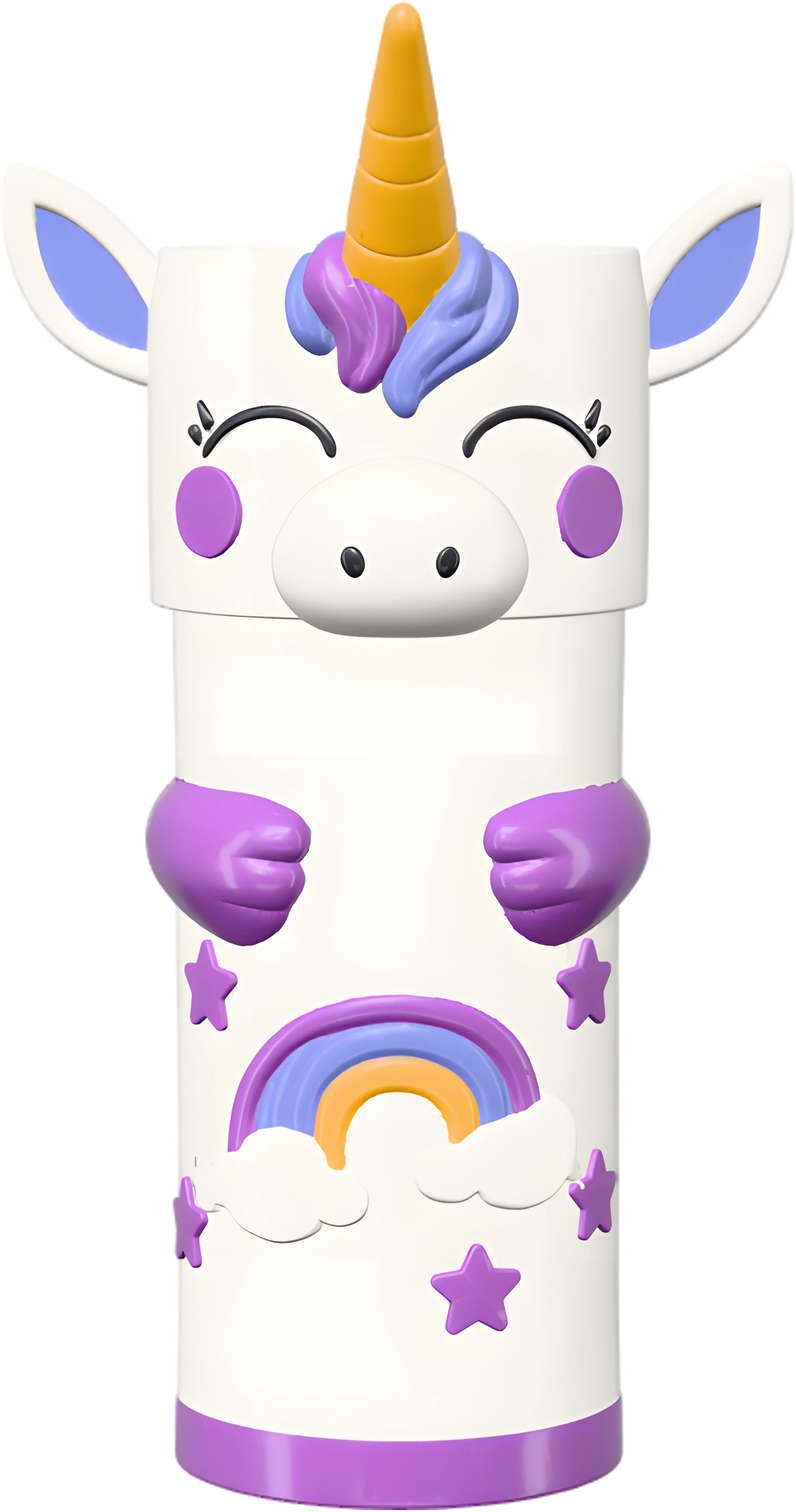
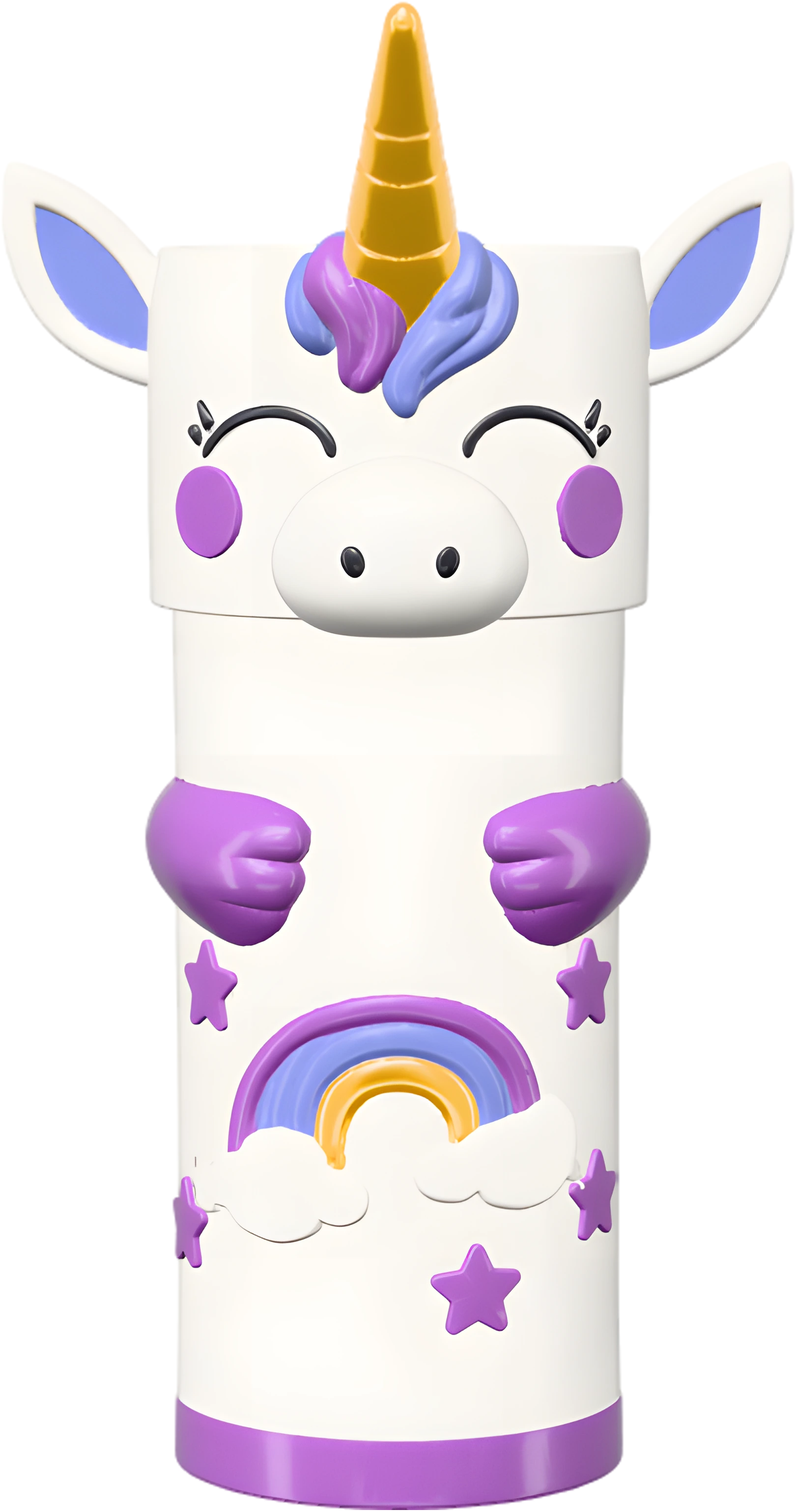
Revisão do unicórnio: o chifre da 1ª foto em ouro polido, como nas fotos do dono
Na galeria real (claro e escuro, 1366 e 390 px) a frente nova ainda destoava num ponto: o chifre (e a faixa dourada do arco-íris,
o mesmo material) saía laranja chapado, sem brilho, ao lado do ouro polido das outras três fotos. A média batia (L 0,77), mas o
desvio era a metade (0,051 contra 0,084-0,114 em OKLab) e os brilhos não chegavam (95º percentil 0,85 contra 0,92-0,95).
A causa: o 4º campo do gloss (a força do reflexo, 3,2 no chifre) não fazia nada — o three.js só lê o envMapIntensity do envMap do
próprio material, e o lamp-glb.html usava só o scene.environment. Agora quem passa esse campo ganha o estúdio como envMap, e o
chifre é metal (gloss_horn=.2,1,.02,3,1, cor #ffc90e): L 0,742, desvio 0,108, 95º percentil 0,89, matiz 80° (fotos do dono:
0,74-0,79, 0,084-0,114, 0,92-0,95, 78-82°). O branco, o roxo e a lavanda ficam idênticos aos do autor (gloss com 3 campos, a
mesma força de antes). Refeito pelo mesmo caminho (lamp-assets.cjs unicornioscopio --foto + Real-ESRGAN + gerar.cjs); só a frente
mudou. VIEWS_VERSION 28 (a 27 já registrava a imagem do autor), páginas de produto e versioned-assets em dia; AMPLIAR.md e
fotos.json explicam o ouro e a armadilha do envMapIntensity.

Changed region(s): [[0.4321, 0.0, 0.5864, 0.2185], [0.4012, 0.6866, 0.6173, 0.7802]]

diff --git a/dist/aviaoscopia.html b/dist/aviaoscopia.html
@@ -41,9 +41,9 @@
       <nav class="pl-crumbs" aria-label="Você está em"><a href="produtos">Produtos</a><span aria-hidden="true">/</span><span aria-current="page">Aviãoscopia</span></nav>
       <article class="pl" style="--pl-accent:#22638f;--pl-ink:#0e1c3d;--pl-muted:#3a6280;--pl-stops:#f0f9fe 0%,#d3ebf8 52%,#bcdff2 100%" data-pl="aviaoscopia">
         <div class="pl-stage">
-          <div class="pl-art is-real" data-pl-stage data-view="photo"><img class="pl-photo" src="assets/vistas/aviaoscopia-frente.webp?v=27" alt="Aviãoscopia — Frente" width="1200" height="1500" fetchpriority="high"><div class="pl-3d" data-pl-viewer hidden></div><p class="pl-status" data-pl-status role="status" hidden></p><ul class="pl-dots" data-pl-dots aria-label="Cores originais"><li><button type="button" class="pl-dot" data-pl-part="body" aria-controls="pl-custom" title="Corpo: Azul BIC" aria-label="Corpo: Azul BIC"><i style="--chip:#183c99" aria-hidden="true"></i></button></li><li><button type="button" class="pl-dot" data-pl-part="details" aria-controls="pl-custom" title="Estrelas e topo: Vermelho" aria-label="Estrelas e topo: Vermelho"><i style="--chip:#db354c" aria-hidden="true"></i></button></li><li><button type="button" class="pl-dot" data-pl-part="engines" aria-controls="pl-custom" title="Motores: Amarelo" aria-label="Motores: Amarelo"><i style="--chip:#efcf59" aria-hidden="true"></i></button></li></ul></div>
+          <div class="pl-art is-real" data-pl-stage data-view="photo"><img class="pl-photo" src="assets/vistas/aviaoscopia-frente.webp?v=28" alt="Aviãoscopia — Frente" width="1200" height="1500" fetchpriority="high"><div class="pl-3d" data-pl-viewer hidden></div><p class="pl-status" data-pl-status role="status" hidden></p><ul class="pl-dots" data-pl-dots aria-label="Cores originais"><li><button type="button" class="pl-dot" data-pl-part="body" aria-controls="pl-custom" title="Corpo: Azul BIC" aria-label="Corpo: Azul BIC"><i style="--chip:#183c99" aria-hidden="true"></i></button></li><li><button type="button" class="pl-dot" data-pl-part="details" aria-controls="pl-custom" title="Estrelas e topo: Vermelho" aria-label="Estrelas e topo: Vermelho"><i style="--chip:#db354c" aria-hidden="true"></i></button></li><li><button type="button" class="pl-dot" data-pl-part="engines" aria-controls="pl-custom" title="Motores: Amarelo" aria-label="Motores: Amarelo"><i style="--chip:#efcf59" aria-hidden="true"></i></button></li></ul></div>
 
-          <div class="pl-thumbs" role="group" aria-label="Fotos da peça" data-pl-thumbs hidden><button type="button" aria-pressed="true" aria-label="Frente" data-src="assets/vistas/aviaoscopia-frente.webp?v=27" data-alt="Aviãoscopia — Frente"><img src="assets/vistas/aviaoscopia-frente-mini.webp?v=27" alt="" width="160" height="200" loading="lazy" decoding="async" draggable="false"></button><button type="button" aria-pressed="false" aria-label="Três quartos" data-src="assets/vistas/aviaoscopia-tres-quartos.webp?v=27" data-alt="Aviãoscopia — Três quartos"><img src="assets/vistas/aviaoscopia-tres-quartos-mini.webp?v=27" alt="" width="160" height="200" loading="lazy" decoding="async" draggable="false"></button><button type="button" aria-pressed="false" aria-label="Costas" data-src="assets/vistas/aviaoscopia-costas.webp?v=27" data-alt="Aviãoscopia — Costas"><img src="assets/vistas/aviaoscopia-costas-mini.webp?v=27" alt="" width="160" height="200" loading="lazy" decoding="async" draggable="false"></button><button type="button" aria-pressed="false" aria-label="Cabine de perto" data-src="assets/vistas/aviaoscopia-detalhe.webp?v=27" data-alt="Aviãoscopia — Cabine de perto"><img src="assets/vistas/aviaoscopia-detalhe-mini.webp?v=27" alt="" width="160" height="200" loading="lazy" decoding="async" draggable="false"></button></div>
+          <div class="pl-thumbs" role="group" aria-label="Fotos da peça" data-pl-thumbs hidden><button type="button" aria-pressed="true" aria-label="Frente" data-src="assets/vistas/aviaoscopia-frente.webp?v=28" data-alt="Aviãoscopia — Frente"><img src="assets/vistas/aviaoscopia-frente-mini.webp?v=28" alt="" width="160" height="200" loading="lazy" decoding="async" draggable="false"></button><button type="button" aria-pressed="false" aria-label="Três quartos" data-src="assets/vistas/aviaoscopia-tres-quartos.webp?v=28" data-alt="Aviãoscopia — Três quartos"><img src="assets/vistas/aviaoscopia-tres-quartos-mini.webp?v=28" alt="" width="160" height="200" loading="lazy" decoding="async" draggable="false"></button><button type="button" aria-pressed="false" aria-label="Costas" data-src="assets/vistas/aviaoscopia-costas.webp?v=28" data-alt="Aviãoscopia — Costas"><img src="assets/vistas/aviaoscopia-costas-mini.webp?v=28" alt="" width="160" height="200" loading="lazy" decoding="async" draggable="false"></button><button type="button" aria-pressed="false" aria-label="Cabine de perto" data-src="assets/vistas/aviaoscopia-detalhe.webp?v=28" data-alt="Aviãoscopia — Cabine de perto"><img src="assets/vistas/aviaoscopia-detalhe-mini.webp?v=28" alt="" width="160" height="200" loading="lazy" decoding="async" draggable="false"></button></div>
           <div class="pl-views" role="group" aria-label="Ver a peça" data-pl-views hidden><button type="button" data-pl-view="photo" aria-pressed="true">Foto</button><button type="button" data-pl-view="3d" aria-pressed="false"><svg class="icon" viewBox="0 0 24 24" fill="none" stroke="currentColor" stroke-width="1.7" stroke-linecap="round" stroke-linejoin="round" aria-hidden="true"><path d="M12 2.8 20 7.2v9.6L12 21.2 4 16.8V7.2z"/><path d="m4 7.2 8 4.4 8-4.4M12 11.6v9.6"/></svg><span>Girar em 360°</span></button></div>
         </div>
         <div class="pl-info">

diff --git a/dist/unicornioscopio.html b/dist/unicornioscopio.html
@@ -41,9 +41,9 @@
       <nav class="pl-crumbs" aria-label="Você está em"><a href="produtos">Produtos</a><span aria-hidden="true">/</span><span aria-current="page">UnicornLamp</span></nav>
       <article class="pl" style="--pl-accent:#87397a;--pl-ink:#291532;--pl-muted:#5a3d6a;--pl-stops:#fcf6fe 0%,#f1e3f8 52%,#e5d1f1 100%" data-pl="unicornioscopio">
         <div class="pl-stage">
-          <div class="pl-art is-real" data-pl-stage data-view="photo"><img class="pl-photo" src="assets/vistas/unicornioscopio-frente.webp?v=27" alt="UnicornLamp — Frente" width="1200" height="1500" fetchpriority="high"><div class="pl-3d" data-pl-viewer hidden></div><p class="pl-status" data-pl-status role="status" hidden></p><ul class="pl-dots" data-pl-dots aria-label="Cores originais"><li><span class="pl-dot is-fixed" role="img" title="Branco" aria-label="Branco"><i style="--chip:#f0ece8" aria-hidden="true"></i></span></li><li><span class="pl-dot is-fixed" role="img" title="Roxo" aria-label="Roxo"><i style="--chip:#a65cbe" aria-hidden="true"></i></span></li><li><span class="pl-dot is-fixed" role="img" title="Azul-lavanda" aria-label="Azul-lavanda"><i style="--chip:#7c8ad8" aria-hidden="true"></i></span></li><li><span class="pl-dot is-fixed" role="img" title="Dourado" aria-label="Dourado"><i style="--chip:#d6a82c" aria-hidden="true"></i></span></li></ul></div>
+          <div class="pl-art is-real" data-pl-stage data-view="photo"><img class="pl-photo" src="assets/vistas/unicornioscopio-frente.webp?v=28" alt="UnicornLamp — Frente" width="1200" height="1500" fetchpriority="high"><div class="pl-3d" data-pl-viewer hidden></div><p class="pl-status" data-pl-status role="status" hidden></p><ul class="pl-dots" data-pl-dots aria-label="Cores originais"><li><span class="pl-dot is-fixed" role="img" title="Branco" aria-label="Branco"><i style="--chip:#f0ece8" aria-hidden="true"></i></span></li><li><span class="pl-dot is-fixed" role="img" title="Roxo" aria-label="Roxo"><i style="--chip:#a65cbe" aria-hidden="true"></i></span></li><li><span class="pl-dot is-fixed" role="img" title="Azul-lavanda" aria-label="Azul-lavanda"><i style="--chip:#7c8ad8" aria-hidden="true"></i></span></li><li><span class="pl-dot is-fixed" role="img" title="Dourado" aria-label="Dourado"><i style="--chip:#d6a82c" aria-hidden="true"></i></span></li></ul></div>
 
-          <div class="pl-thumbs" role="group" aria-label="Fotos da peça" data-pl-thumbs hidden><button type="button" aria-pressed="true" aria-label="Frente" data-src="assets/vistas/unicornioscopio-frente.webp?v=27" data-alt="UnicornLamp — Frente"><img src="assets/vistas/unicornioscopio-frente-mini.webp?v=27" alt="" width="160" height="200" loading="lazy" decoding="async" draggable="false"></button><button type="button" aria-pressed="false" aria-label="Lado" data-src="assets/vistas/unicornioscopio-lado.webp?v=27" data-alt="UnicornLamp — Lado"><img src="assets/vistas/unicornioscopio-lado-mini.webp?v=27" alt="" width="160" height="200" loading="lazy" decoding="async" draggable="false"></button><button type="button" aria-pressed="false" aria-label="Costas" data-src="assets/vistas/unicornioscopio-costas.webp?v=27" data-alt="UnicornLamp — Costas"><img src="assets/vistas/unicornioscopio-costas-mini.webp?v=27" alt="" width="160" height="200" loading="lazy" decoding="async" draggable="false"></button><button type="button" aria-pressed="false" aria-label="Rosto de perto" data-src="assets/vistas/unicornioscopio-detalhe.webp?v=27" data-alt="UnicornLamp — Rosto de perto"><img src="assets/vistas/unicornioscopio-detalhe-mini.webp?v=27" alt="" width="160" height="200" loading="lazy" decoding="async" draggable="false"></button></div>
+          <div class="pl-thumbs" role="group" aria-label="Fotos da peça" data-pl-thumbs hidden><button type="button" aria-pressed="true" aria-label="Frente" data-src="assets/vistas/unicornioscopio-frente.webp?v=28" data-alt="UnicornLamp — Frente"><img src="assets/vistas/unicornioscopio-frente-mini.webp?v=28" alt="" width="160" height="200" loading="lazy" decoding="async" draggable="false"></button><button type="button" aria-pressed="false" aria-label="Lado" data-src="assets/vistas/unicornioscopio-lado.webp?v=28" data-alt="UnicornLamp — Lado"><img src="assets/vistas/unicornioscopio-lado-mini.webp?v=28" alt="" width="160" height="200" loading="lazy" decoding="async" draggable="false"></button><button type="button" aria-pressed="false" aria-label="Costas" data-src="assets/vistas/unicornioscopio-costas.webp?v=28" data-alt="UnicornLamp — Costas"><img src="assets/vistas/unicornioscopio-costas-mini.webp?v=28" alt="" width="160" height="200" loading="lazy" decoding="async" draggable="false"></button><button type="button" aria-pressed="false" aria-label="Rosto de perto" data-src="assets/vistas/unicornioscopio-detalhe.webp?v=28" data-alt="UnicornLamp — Rosto de perto"><img src="assets/vistas/unicornioscopio-detalhe-mini.webp?v=28" alt="" width="160" height="200" loading="lazy" decoding="async" draggable="false"></button></div>
           <div class="pl-views" role="group" aria-label="Ver a peça" data-pl-views hidden><button type="button" data-pl-view="photo" aria-pressed="true">Foto</button><button type="button" data-pl-view="3d" aria-pressed="false"><svg class="icon" viewBox="0 0 24 24" fill="none" stroke="currentColor" stroke-width="1.7" stroke-linecap="round" stroke-linejoin="round" aria-hidden="true"><path d="M12 2.8 20 7.2v9.6L12 21.2 4 16.8V7.2z"/><path d="m4 7.2 8 4.4 8-4.4M12 11.6v9.6"/></svg><span>Girar em 360°</span></button></div>
         </div>
         <div class="pl-info">

diff --git a/dist/dinossauroscopio.html b/dist/dinossauroscopio.html
@@ -41,9 +41,9 @@
       <nav class="pl-crumbs" aria-label="Você está em"><a href="produtos">Produtos</a><span aria-hidden="true">/</span><span aria-current="page">Dinossauroscópio</span></nav>
       <article class="pl" style="--pl-accent:#4a5f34;--pl-ink:#1b2414;--pl-muted:#46553a;--pl-stops:#f4f6ee 0%,#e2e8d4 52%,#d0d9bf 100%" data-pl="dinossauroscopio">
         <div class="pl-stage">
-          <div class="pl-art is-real" data-pl-stage data-view="photo"><img class="pl-photo" src="assets/vistas/dinossauroscopio-frente.webp?v=27" alt="Dinossauroscópio — Frente" width="1200" height="1500" fetchpriority="high"><div class="pl-3d" data-pl-viewer hidden></div><p class="pl-status" data-pl-status role="status" hidden></p><ul class="pl-dots" data-pl-dots aria-label="Cores originais"><li><button type="button" class="pl-dot" data-pl-part="body" aria-controls="pl-custom" title="Corpo: Verde-oliva" aria-label="Corpo: Verde-oliva"><i style="--chip:#7c8f73" aria-hidden="true"></i></button></li><li><button type="button" class="pl-dot" data-pl-part="details" aria-controls="pl-custom" title="Crista e bolinhas: Amarelo-claro" aria-label="Crista e bolinhas: Amarelo-claro"><i style="--chip:#f0dd7c" aria-hidden="true"></i></button></li></ul></div>
+          <div class="pl-art is-real" data-pl-stage data-view="photo"><img class="pl-photo" src="assets/vistas/dinossauroscopio-frente.webp?v=28" alt="Dinossauroscópio — Frente" width="1200" height="1500" fetchpriority="high"><div class="pl-3d" data-pl-viewer hidden></div><p class="pl-status" data-pl-status role="status" hidden></p><ul class="pl-dots" data-pl-dots aria-label="Cores originais"><li><button type="button" class="pl-dot" data-pl-part="body" aria-controls="pl-custom" title="Corpo: Verde-oliva" aria-label="Corpo: Verde-oliva"><i style="--chip:#7c8f73" aria-hidden="true"></i></button></li><li><button type="button" class="pl-dot" data-pl-part="details" aria-controls="pl-custom" title="Crista e bolinhas: Amarelo-claro" aria-label="Crista e bolinhas: Amarelo-claro"><i style="--chip:#f0dd7c" aria-hidden="true"></i></button></li></ul></div>
 
-          <div class="pl-thumbs" role="group" aria-label="Fotos da peça" data-pl-thumbs hidden><button type="button" aria-pressed="true" aria-label="Frente" data-src="assets/vistas/dinossauroscopio-frente.webp?v=27" data-alt="Dinossauroscópio — Frente"><img src="assets/vistas/dinossauroscopio-frente-mini.webp?v=27" alt="" width="160" height="200" loading="lazy" decoding="async" draggable="false"></button><button type="button" aria-pressed="false" aria-label="Três quartos" data-src="assets/vistas/dinossauroscopio-tres-quartos.webp?v=27" data-alt="Dinossauroscópio — Três quartos"><img src="assets/vistas/dinossauroscopio-tres-quartos-mini.webp?v=27" alt="" width="160" height="200" loading="lazy" decoding="async" draggable="false"></button><button type="button" aria-pressed="false" aria-label="Costas" data-src="assets/vistas/dinossauroscopio-costas.webp?v=27" data-alt="Dinossauroscópio — Costas"><img src="assets/vistas/dinossauroscopio-costas-mini.webp?v=27" alt="" width="160" height="200" loading="lazy" decoding="async" draggable="false"></button><button type="button" aria-pressed="false" aria-label="Rosto de perto" data-src="assets/vistas/dinossauroscopio-detalhe.webp?v=27" data-alt="Dinossauroscópio — Rosto de perto"><img src="assets/vistas/dinossauroscopio-detalhe-mini.webp?v=27" alt="" width="160" height="200" loading="lazy" decoding="async" draggable="false"></button></div>
+          <div class="pl-thumbs" role="group" aria-label="Fotos da peça" data-pl-thumbs hidden><button type="button" aria-pressed="true" aria-label="Frente" data-src="assets/vistas/dinossauroscopio-frente.webp?v=28" data-alt="Dinossauroscópio — Frente"><img src="assets/vistas/dinossauroscopio-frente-mini.webp?v=28" alt="" width="160" height="200" loading="lazy" decoding="async" draggable="false"></button><button type="button" aria-pressed="false" aria-label="Três quartos" data-src="assets/vistas/dinossauroscopio-tres-quartos.webp?v=28" data-alt="Dinossauroscópio — Três quartos"><img src="assets/vistas/dinossauroscopio-tres-quartos-mini.webp?v=28" alt="" width="160" height="200" loading="lazy" decoding="async" draggable="false"></button><button type="button" aria-pressed="false" aria-label="Costas" data-src="assets/vistas/dinossauroscopio-costas.webp?v=28" data-alt="Dinossauroscópio — Costas"><img src="assets/vistas/dinossauroscopio-costas-mini.webp?v=28" alt="" width="160" height="200" loading="lazy" decoding="async" draggable="false"></button><button type="button" aria-pressed="false" aria-label="Rosto de perto" data-src="assets/vistas/dinossauroscopio-detalhe.webp?v=28" data-alt="Dinossauroscópio — Rosto de perto"><img src="assets/vistas/dinossauroscopio-detalhe-mini.webp?v=28" alt="" width="160" height="200" loading="lazy" decoding="async" draggable="false"></button></div>
           <div class="pl-views" role="group" aria-label="Ver a peça" data-pl-views hidden><button type="button" data-pl-view="photo" aria-pressed="true">Foto</button><button type="button" data-pl-view="3d" aria-pressed="false"><svg class="icon" viewBox="0 0 24 24" fill="none" stroke="currentColor" stroke-width="1.7" stroke-linecap="round" stroke-linejoin="round" aria-hidden="true"><path d="M12 2.8 20 7.2v9.6L12 21.2 4 16.8V7.2z"/><path d="m4 7.2 8 4.4 8-4.4M12 11.6v9.6"/></svg><span>Girar em 360°</span></button></div>
         </div>
         <div class="pl-info">

diff --git a/dist/borboletoscopio.html b/dist/borboletoscopio.html
@@ -41,9 +41,9 @@
       <nav class="pl-crumbs" aria-label="Você está em"><a href="produtos">Produtos</a><span aria-hidden="true">/</span><span aria-current="page">Borboletoscópio</span></nav>
       <article class="pl" style="--pl-accent:#25664c;--pl-ink:#10281e;--pl-muted:#356650;--pl-stops:#f0faf4 0%,#d9f0e4 52%,#c6e8d7 100%" data-pl="borboletoscopio">
         <div class="pl-stage">
-          <div class="pl-art is-real" data-pl-stage data-view="photo"><img class="pl-photo" src="assets/vistas/borboletoscopio-frente.webp?v=27" alt="Borboletoscópio — Frente" width="1200" height="1500" fetchpriority="high"><div class="pl-3d" data-pl-viewer hidden></div><p class="pl-status" data-pl-status role="status" hidden></p><ul class="pl-dots" data-pl-dots aria-label="Cores originais"><li><button type="button" class="pl-dot" data-pl-part="body" aria-controls="pl-custom" title="Corpo: Verde-menta" aria-label="Corpo: Verde-menta"><i style="--chip:#89cdbc" aria-hidden="true"></i></button></li><li><button type="button" class="pl-dot" data-pl-part="details" aria-controls="pl-custom" title="Detalhes das asas: Amarelo" aria-label="Detalhes das asas: Amarelo"><i style="--chip:#efcf59" aria-hidden="true"></i></button></li></ul></div>
+          <div class="pl-art is-real" data-pl-stage data-view="photo"><img class="pl-photo" src="assets/vistas/borboletoscopio-frente.webp?v=28" alt="Borboletoscópio — Frente" width="1200" height="1500" fetchpriority="high"><div class="pl-3d" data-pl-viewer hidden></div><p class="pl-status" data-pl-status role="status" hidden></p><ul class="pl-dots" data-pl-dots aria-label="Cores originais"><li><button type="button" class="pl-dot" data-pl-part="body" aria-controls="pl-custom" title="Corpo: Verde-menta" aria-label="Corpo: Verde-menta"><i style="--chip:#89cdbc" aria-hidden="true"></i></button></li><li><button type="button" class="pl-dot" data-pl-part="details" aria-controls="pl-custom" title="Detalhes das asas: Amarelo" aria-label="Detalhes das asas: Amarelo"><i style="--chip:#efcf59" aria-hidden="true"></i></button></li></ul></div>
 
-          <div class="pl-thumbs" role="group" aria-label="Fotos da peça" data-pl-thumbs hidden><button type="button" aria-pressed="true" aria-label="Frente" data-src="assets/vistas/borboletoscopio-frente.webp?v=27" data-alt="Borboletoscópio — Frente"><img src="assets/vistas/borboletoscopio-frente-mini.webp?v=27" alt="" width="160" height="200" loading="lazy" decoding="async" draggable="false"></button><button type="button" aria-pressed="false" aria-label="Três quartos" data-src="assets/vistas/borboletoscopio-tres-quartos.webp?v=27" data-alt="Borboletoscópio — Três quartos"><img src="assets/vistas/borboletoscopio-tres-quartos-mini.webp?v=27" alt="" width="160" height="200" loading="lazy" decoding="async" draggable="false"></button><button type="button" aria-pressed="false" aria-label="Costas" data-src="assets/vistas/borboletoscopio-costas.webp?v=27" data-alt="Borboletoscópio — Costas"><img src="assets/vistas/borboletoscopio-costas-mini.webp?v=27" alt="" width="160" height="200" loading="lazy" decoding="async" draggable="false"></button><button type="button" aria-pressed="false" aria-label="Rostinho de perto" data-src="assets/vistas/borboletoscopio-detalhe.webp?v=27" data-alt="Borboletoscópio — Rostinho de perto"><img src="assets/vistas/borboletoscopio-detalhe-mini.webp?v=27" alt="" width="160" height="200" loading="lazy" decoding="async" draggable="false"></button></div>
+          <div class="pl-thumbs" role="group" aria-label="Fotos da peça" data-pl-thumbs hidden><button type="button" aria-pressed="true" aria-label="Frente" data-src="assets/vistas/borboletoscopio-frente.webp?v=28" data-alt="Borboletoscópio — Frente"><img src="assets/vistas/borboletoscopio-frente-mini.webp?v=28" alt="" width="160" height="200" loading="lazy" decoding="async" draggable="false"></button><button type="button" aria-pressed="false" aria-label="Três quartos" data-src="assets/vistas/borboletoscopio-tres-quartos.webp?v=28" data-alt="Borboletoscópio — Três quartos"><img src="assets/vistas/borboletoscopio-tres-quartos-mini.webp?v=28" alt="" width="160" height="200" loading="lazy" decoding="async" draggable="false"></button><button type="button" aria-pressed="false" aria-label="Costas" data-src="assets/vistas/borboletoscopio-costas.webp?v=28" data-alt="Borboletoscópio — Costas"><img src="assets/vistas/borboletoscopio-costas-mini.webp?v=28" alt="" width="160" height="200" loading="lazy" decoding="async" draggable="false"></button><button type="button" aria-pressed="false" aria-label="Rostinho de perto" data-src="assets/vistas/borboletoscopio-detalhe.webp?v=28" data-alt="Borboletoscópio — Rostinho de perto"><img src="assets/vistas/borboletoscopio-detalhe-mini.webp?v=28" alt="" width="160" height="200" loading="lazy" decoding="async" draggable="false"></button></div>
           <div class="pl-views" role="group" aria-label="Ver a peça" data-pl-views hidden><button type="button" data-pl-view="photo" aria-pressed="true">Foto</button><button type="button" data-pl-view="3d" aria-pressed="false"><svg class="icon" viewBox="0 0 24 24" fill="none" stroke="currentColor" stroke-width="1.7" stroke-linecap="round" stroke-linejoin="round" aria-hidden="true"><path d="M12 2.8 20 7.2v9.6L12 21.2 4 16.8V7.2z"/><path d="m4 7.2 8 4.4 8-4.4M12 11.6v9.6"/></svg><span>Girar em 360°</span></button></div>
         </div>
         <div class="pl-info">

diff --git a/dist/girafoscopio.html b/dist/girafoscopio.html
@@ -41,9 +41,9 @@
       <nav class="pl-crumbs" aria-label="Você está em"><a href="produtos">Produtos</a><span aria-hidden="true">/</span><span aria-current="page">GiraffeLamp</span></nav>
       <article class="pl" style="--pl-accent:#87430c;--pl-ink:#2e1c07;--pl-muted:#5c3a10;--pl-stops:#fff6df 0%,#fbe4b0 52%,#f4d08a 100%" data-pl="girafoscopio">
         <div class="pl-stage">
-          <div class="pl-art is-real" data-pl-stage data-view="photo"><img class="pl-photo" src="assets/vistas/girafoscopio-frente.webp?v=27" alt="GiraffeLamp — Frente" width="1200" height="1500" fetchpriority="high"><div class="pl-3d" data-pl-viewer hidden></div><p class="pl-status" data-pl-status role="status" hidden></p><ul class="pl-dots" data-pl-dots aria-label="Cores originais"><li><span class="pl-dot is-fixed" role="img" title="Amarelo-ocre" aria-label="Amarelo-ocre"><i style="--chip:#eeb012" aria-hidden="true"></i></span></li><li><span class="pl-dot is-fixed" role="img" title="Marrom" aria-label="Marrom"><i style="--chip:#60341e" aria-hidden="true"></i></span></li><li><span class="pl-dot is-fixed" role="img" title="Creme" aria-label="Creme"><i style="--chip:#dec4a0" aria-hidden="true"></i></span></li></ul></div>
+          <div class="pl-art is-real" data-pl-stage data-view="photo"><img class="pl-photo" src="assets/vistas/girafoscopio-frente.webp?v=28" alt="GiraffeLamp — Frente" width="1200" height="1500" fetchpriority="high"><div class="pl-3d" data-pl-viewer hidden></div><p class="pl-status" data-pl-status role="status" hidden></p><ul class="pl-dots" data-pl-dots aria-label="Cores originais"><li><span class="pl-dot is-fixed" role="img" title="Amarelo-ocre" aria-label="Amarelo-ocre"><i style="--chip:#eeb012" aria-hidden="true"></i></span></li><li><span class="pl-dot is-fixed" role="img" title="Marrom" aria-label="Marrom"><i style="--chip:#60341e" aria-hidden="true"></i></span></li><li><span class="pl-dot is-fixed" role="img" title="Creme" aria-label="Creme"><i style="--chip:#dec4a0" aria-hidden="true"></i></span></li></ul></div>
 
-          <div class="pl-thumbs" role="group" aria-label="Fotos da peça" data-pl-thumbs hidden><button type="button" aria-pressed="true" aria-label="Frente" data-src="assets/vistas/girafoscopio-frente.webp?v=27" data-alt="GiraffeLamp — Frente"><img src="assets/vistas/girafoscopio-frente-mini.webp?v=27" alt="" width="160" height="200" loading="lazy" decoding="async" draggable="false"></button><button type="button" aria-pressed="false" aria-label="Lado" data-src="assets/vistas/girafoscopio-lado.webp?v=27" data-alt="GiraffeLamp — Lado"><img src="assets/vistas/girafoscopio-lado-mini.webp?v=27" alt="" width="160" height="200" loading="lazy" decoding="async" draggable="false"></button><button type="button" aria-pressed="false" aria-label="Costas" data-src="assets/vistas/girafoscopio-costas.webp?v=27" data-alt="GiraffeLamp — Costas"><img src="assets/vistas/girafoscopio-costas-mini.webp?v=27" alt="" width="160" height="200" loading="lazy" decoding="async" draggable="false"></button><button type="button" aria-pressed="false" aria-label="Rosto de perto" data-src="assets/vistas/girafoscopio-detalhe.webp?v=27" data-alt="GiraffeLamp — Rosto de perto"><img src="assets/vistas/girafoscopio-detalhe-mini.webp?v=27" alt="" width="160" height="200" loading="lazy" decoding="async" draggable="false"></button></div>
+          <div class="pl-thumbs" role="group" aria-label="Fotos da peça" data-pl-thumbs hidden><button type="button" aria-pressed="true" aria-label="Frente" data-src="assets/vistas/girafoscopio-frente.webp?v=28" data-alt="GiraffeLamp — Frente"><img src="assets/vistas/girafoscopio-frente-mini.webp?v=28" alt="" width="160" height="200" loading="lazy" decoding="async" draggable="false"></button><button type="button" aria-pressed="false" aria-label="Lado" data-src="assets/vistas/girafoscopio-lado.webp?v=28" data-alt="GiraffeLamp — Lado"><img src="assets/vistas/girafoscopio-lado-mini.webp?v=28" alt="" width="160" height="200" loading="lazy" decoding="async" draggable="false"></button><button type="button" aria-pressed="false" aria-label="Costas" data-src="assets/vistas/girafoscopio-costas.webp?v=28" data-alt="GiraffeLamp — Costas"><img src="assets/vistas/girafoscopio-costas-mini.webp?v=28" alt="" width="160" height="200" loading="lazy" decoding="async" draggable="false"></button><button type="button" aria-pressed="false" aria-label="Rosto de perto" data-src="assets/vistas/girafoscopio-detalhe.webp?v=28" data-alt="GiraffeLamp — Rosto de perto"><img src="assets/vistas/girafoscopio-detalhe-mini.webp?v=28" alt="" width="160" height="200" loading="lazy" decoding="async" draggable="false"></button></div>
           <div class="pl-views" role="group" aria-label="Ver a peça" data-pl-views hidden><button type="button" data-pl-view="photo" aria-pressed="true">Foto</button><button type="button" data-pl-view="3d" aria-pressed="false"><svg class="icon" viewBox="0 0 24 24" fill="none" stroke="currentColor" stroke-width="1.7" stroke-linecap="round" stroke-linejoin="round" aria-hidden="true"><path d="M12 2.8 20 7.2v9.6L12 21.2 4 16.8V7.2z"/><path d="m4 7.2 8 4.4 8-4.4M12 11.6v9.6"/></svg><span>Girar em 360°</span></button></div>
         </div>
         <div class="pl-info">

diff --git a/dist/macacoscopio.html b/dist/macacoscopio.html
@@ -41,9 +41,9 @@
       <nav class="pl-crumbs" aria-label="Você está em"><a href="produtos">Produtos</a><span aria-hidden="true">/</span><span aria-current="page">MonkeyLamp</span></nav>
       <article class="pl" style="--pl-accent:#86441a;--pl-ink:#33200f;--pl-muted:#634526;--pl-stops:#fcf5e5 0%,#f5e8c8 52%,#eddcb5 100%" data-pl="macacoscopio">
         <div class="pl-stage">
-          <div class="pl-art is-real" data-pl-stage data-view="photo"><img class="pl-photo" src="assets/vistas/macacoscopio-frente.webp?v=27" alt="MonkeyLamp — Frente" width="1200" height="1500" fetchpriority="high"><div class="pl-3d" data-pl-viewer hidden></div><p class="pl-status" data-pl-status role="status" hidden></p><ul class="pl-dots" data-pl-dots aria-label="Cores originais"><li><span class="pl-dot is-fixed" role="img" title="Marrom" aria-label="Marrom"><i style="--chip:#6a3a28" aria-hidden="true"></i></span></li><li><span class="pl-dot is-fixed" role="img" title="Bege" aria-label="Bege"><i style="--chip:#c9a07d" aria-hidden="true"></i></span></li><li><span class="pl-dot is-fixed" role="img" title="Amarelo" aria-label="Amarelo"><i style="--chip:#efcf59" aria-hidden="true"></i></span></li></ul></div>
+          <div class="pl-art is-real" data-pl-stage data-view="photo"><img class="pl-photo" src="assets/vistas/macacoscopio-frente.webp?v=28" alt="MonkeyLamp — Frente" width="1200" height="1500" fetchpriority="high"><div class="pl-3d" data-pl-viewer hidden></div><p class="pl-status" data-pl-status role="status" hidden></p><ul class="pl-dots" data-pl-dots aria-label="Cores originais"><li><span class="pl-dot is-fixed" role="img" title="Marrom" aria-label="Marrom"><i style="--chip:#6a3a28" aria-hidden="true"></i></span></li><li><span class="pl-dot is-fixed" role="img" title="Bege" aria-label="Bege"><i style="--chip:#c9a07d" aria-hidden="true"></i></span></li><li><span class="pl-dot is-fixed" role="img" title="Amarelo" aria-label="Amarelo"><i style="--chip:#efcf59" aria-hidden="true"></i></span></li></ul></div>
 
-          <div class="pl-thumbs" role="group" aria-label="Fotos da peça" data-pl-thumbs hidden><button type="button" aria-pressed="true" aria-label="Frente" data-src="assets/vistas/macacoscopio-frente.webp?v=27" data-alt="MonkeyLamp — Frente"><img src="assets/vistas/macacoscopio-frente-mini.webp?v=27" alt="" width="160" height="200" loading="lazy" decoding="async" draggable="false"></button><button type="button" aria-pressed="false" aria-label="Lado" data-src="assets/vistas/macacoscopio-lado.webp?v=27" data-alt="MonkeyLamp — Lado"><img src="assets/vistas/macacoscopio-lado-mini.webp?v=27" alt="" width="160" height="200" loading="lazy" decoding="async" draggable="false"></button><button type="button" aria-pressed="false" aria-label="Costas" data-src="assets/vistas/macacoscopio-costas.webp?v=27" data-alt="MonkeyLamp — Costas"><img src="assets/vistas/macacoscopio-costas-mini.webp?v=27" alt="" width="160" height="200" loading="lazy" decoding="async" draggable="false"></button><button type="button" aria-pressed="false" aria-label="Rosto de perto" data-src="assets/vistas/macacoscopio-detalhe.webp?v=27" data-alt="MonkeyLamp — Rosto de perto"><img src="assets/vistas/macacoscopio-detalhe-mini.webp?v=27" alt="" width="160" height="200" loading="lazy" decoding="async" draggable="false"></button></div>
+          <div class="pl-thumbs" role="group" aria-label="Fotos da peça" data-pl-thumbs hidden><button type="button" aria-pressed="true" aria-label="Frente" data-src="assets/vistas/macacoscopio-frente.webp?v=28" data-alt="MonkeyLamp — Frente"><img src="assets/vistas/macacoscopio-frente-mini.webp?v=28" alt="" width="160" height="200" loading="lazy" decoding="async" draggable="false"></button><button type="button" aria-pressed="false" aria-label="Lado" data-src="assets/vistas/macacoscopio-lado.webp?v=28" data-alt="MonkeyLamp — Lado"><img src="assets/vistas/macacoscopio-lado-mini.webp?v=28" alt="" width="160" height="200" loading="lazy" decoding="async" draggable="false"></button><button type="button" aria-pressed="false" aria-label="Costas" data-src="assets/vistas/macacoscopio-costas.webp?v=28" data-alt="MonkeyLamp — Costas"><img src="assets/vistas/macacoscopio-costas-mini.webp?v=28" alt="" width="160" height="200" loading="lazy" decoding="async" draggable="false"></button><button type="button" aria-pressed="false" aria-label="Rosto de perto" data-src="assets/vistas/macacoscopio-detalhe.webp?v=28" data-alt="MonkeyLamp — Rosto de perto"><img src="assets/vistas/macacoscopio-detalhe-mini.webp?v=28" alt="" width="160" height="200" loading="lazy" decoding="async" draggable="false"></button></div>
           <div class="pl-views" role="group" aria-label="Ver a peça" data-pl-views hidden><button type="button" data-pl-view="photo" aria-pressed="true">Foto</button><button type="button" data-pl-view="3d" aria-pressed="false"><svg class="icon" viewBox="0 0 24 24" fill="none" stroke="currentColor" stroke-width="1.7" stroke-linecap="round" stroke-linejoin="round" aria-hidden="true"><path d="M12 2.8 20 7.2v9.6L12 21.2 4 16.8V7.2z"/><path d="m4 7.2 8 4.4 8-4.4M12 11.6v9.6"/></svg><span>Girar em 360°</span></button></div>
         </div>
         <div class="pl-info">

diff --git a/tools/render-aviao-macaco/lamp-glb.html b/tools/render-aviao-macaco/lamp-glb.html
@@ -29,8 +29,10 @@ subject.traverse(o => {
   const src = o.material, dark = src.name === 'features' || src.name === 'eyes'; o.userData.matName = src.name;
   // gloss=roughness,clearcoat,clearcoatRoughness[,envMapIntensity[,metalness]] (the coloured parts) and gloss_<material>=… for one of them: a glossier
   // plastic for a picture that sits next to glossy studio photos (09/10/2026, the unicorn's front in the gallery); without it, the satin above
-  const [rough, coat, coatRough, envI = .9, metal = 0] = (P['gloss_' + src.name] || (dark ? '' : P.gloss) || (dark ? '.28,.8,.12' : '.46,.28,.4')).split(',').map(Number);
-  o.material = new THREE.MeshPhysicalMaterial({color: tint[src.name] ? new THREE.Color(tint[src.name]) : src.color.clone(), roughness: rough, metalness: metal, clearcoat: coat, clearcoatRoughness: coatRough, envMapIntensity: envI, side: THREE.DoubleSide});
+  const gloss = (P['gloss_' + src.name] || (dark ? '' : P.gloss) || (dark ? '.28,.8,.12' : '.46,.28,.4')).split(',').map(Number), [rough, coat, coatRough, envI = .9, metal = 0] = gloss;
+  // three.js only reads envMapIntensity from a material's own envMap (scene.environment alone keeps it at 1): with a 4th field the
+  // material gets the studio as its own envMap, so the strength really applies (the gold of the horn, 09/10/2026); without it, as before
+  o.material = new THREE.MeshPhysicalMaterial({color: tint[src.name] ? new THREE.Color(tint[src.name]) : src.color.clone(), roughness: rough, metalness: metal, clearcoat: coat, clearcoatRoughness: coatRough, envMapIntensity: envI, envMap: gloss.length > 3 ? scene.environment : null, side: THREE.DoubleSide});
   // flat=1 (checking the paint): the bare colours, no light — a border that leaks shows as it is, not as a shadow
   if (P.flat) o.material = new THREE.MeshBasicMaterial({color: src.color.clone(), side: THREE.DoubleSide});
   // the thin, dense Rodin shells get shadow acne from their own inner wall (as on the site, asset-models.js): they cast, not receive

diff --git a/dist/gallery.js b/dist/gallery.js
@@ -20,7 +20,7 @@ export const GALLERY={
 export const viewsOf=key=>GALLERY[key]?(GALLERY[key].vistas||STANDARD.map(([id])=>id)).map(id=>({id,name:id==='detalhe'?GALLERY[key].detalhe:NAMES[id],zoom:id==='detalhe'})):[{id:'frente',name:'Frente',zoom:false}];
 export const hasGallery=key=>!!GALLERY[key];
 // Mude junto com as imagens de assets/vistas/ para quem tem a versão antiga no cache buscar a nova.
-export const VIEWS_VERSION='27';
+export const VIEWS_VERSION='28';
 export const staticViews=key=>viewsOf(key).map(view=>({...view,src:`assets/vistas/${key}-${view.id}.webp?v=${VIEWS_VERSION}`,thumb:`assets/vistas/${key}-${view.id}-mini.webp?v=${VIEWS_VERSION}`}));
 
 export function createGallery(root,{onChange}={}){

diff --git a/tools/galeria-vistas/AMPLIAR.md b/tools/galeria-vistas/AMPLIAR.md
@@ -40,6 +40,10 @@ da beirada espalhada para fora (sem ela, o modelo vê preto em volta da peça e 
 `RENDER_GPU=d3d11 node tools/render-aviao-macaco/lamp-assets.cjs unicornioscopio --foto` (com o `node serve.cjs` da mesma pasta no ar)
 grava `design/vistas/unicornioscopio-3d-frente.png` e `ampliadas/unicornioscopio-3d-frente-x4.webp`; a luz e as cores ficam em `FOTO`
 no começo do script. A vitrine, os cards e o giro não mudam.
+O dourado das fotos do dono é metal polido (brilhos quase brancos e faixas escuras, L 0,74 com desvio 0,085 em OKLab): como plástico
+acetinado o chifre saía laranja chapado ao lado delas, mesmo com a média certa. Por isso o chifre (e a faixa dourada do arco-íris, o
+mesmo material) usa `gloss_horn=…,<força do reflexo>,1` (metalness 1). O 4º campo do `gloss` só vale com ele: o three.js lê o
+envMapIntensity só do envMap do próprio material, e o `lamp-glb.html` dá o estúdio como envMap a quem tem esse campo.
 
 ## Cores
 
